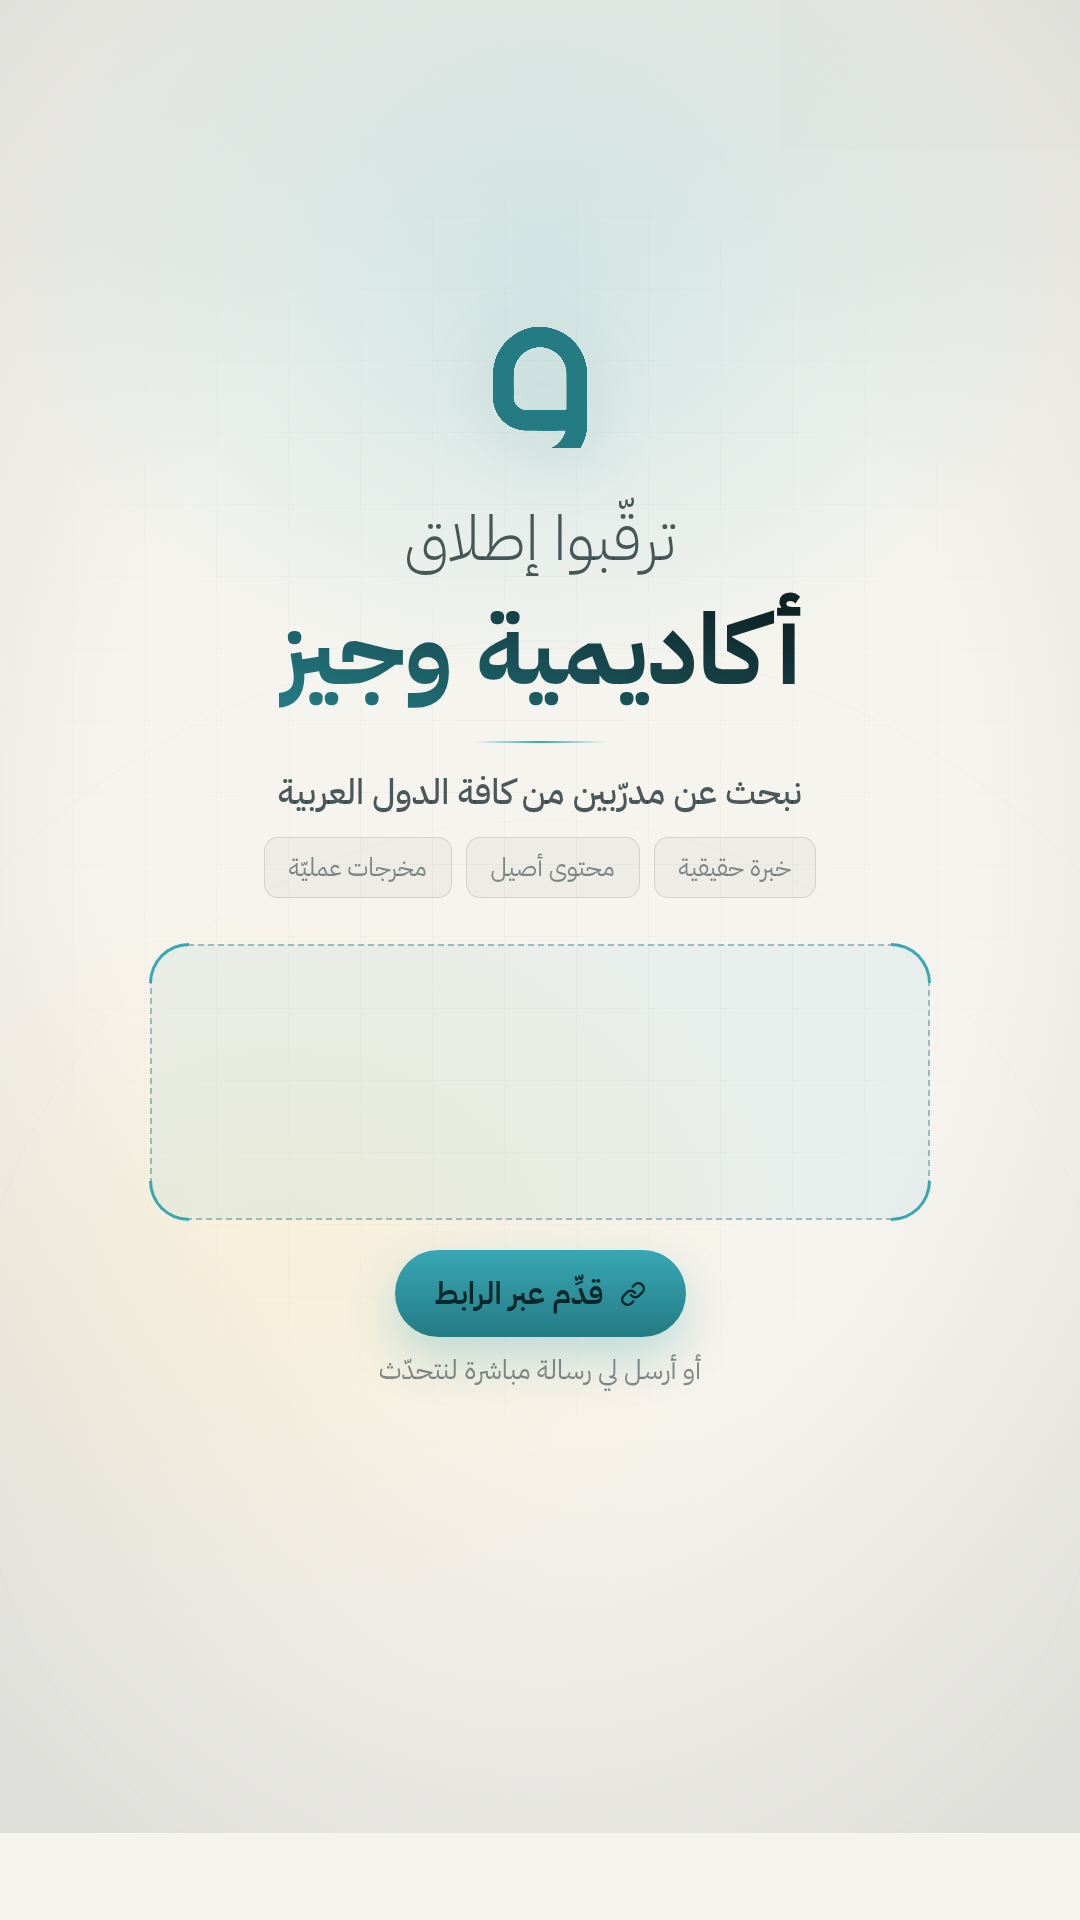
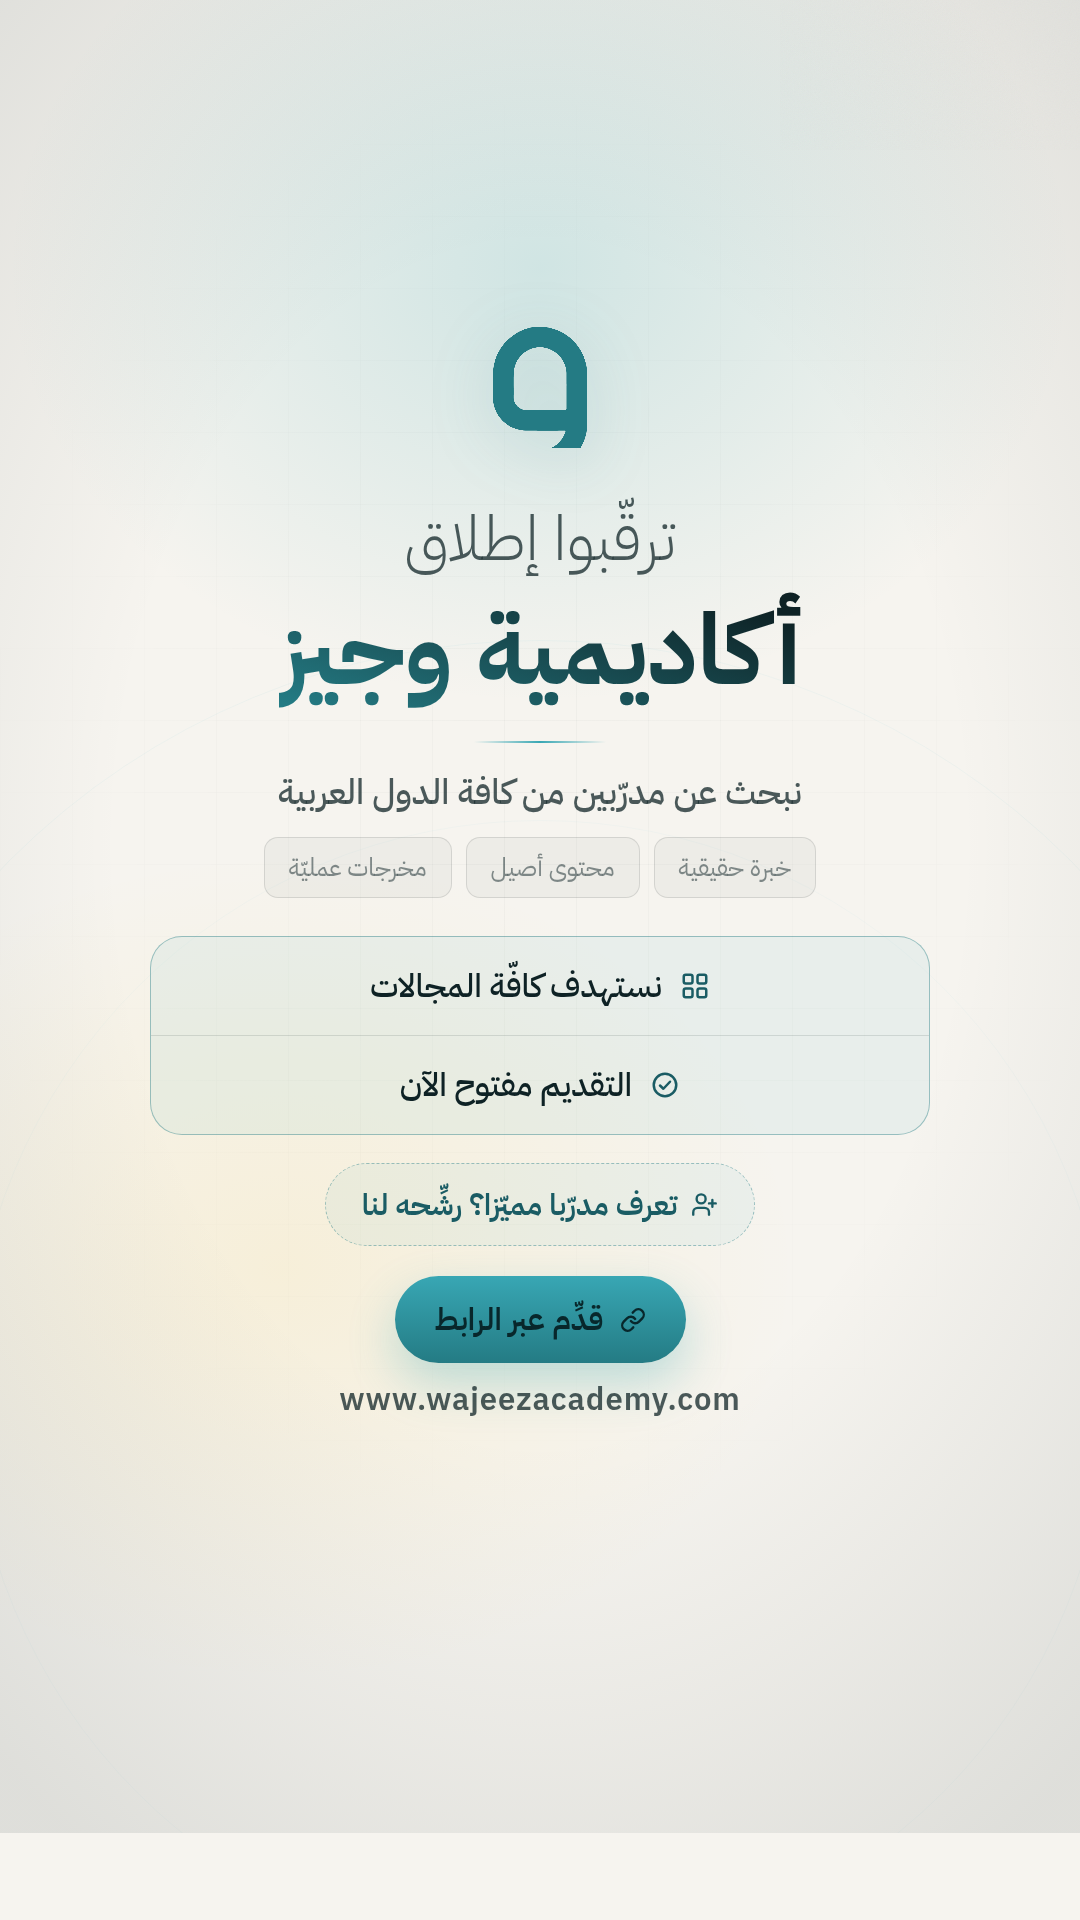
معلوماتٌ مكانَ المربّع، والعنوانُ مكانَ السطر الأخير
رفع صاحبُ المنصّة المربّعَ المتروكَ لملصَق الأسئلة، وطلب مكانَه ما يُقرأ:

- لوحٌ بسطرَين: «نستهدف كافّة المجالات» و«التقديم مفتوح الآن».
- ودعوةٌ إلى الترشيح: «تعرف مدرّبا مميّزا؟ رشِّحه لنا» — وحدُّها مقطَّعٌ كما
  كان حدُّ المربّع، فما يُطلب من القارئ يبقى له شكلُه.
- والسطرُ الأخير صار `www.wajeezacademy.com` بدل «أو أرسل لي رسالة».

والعنوانُ لاتينيٌّ في صفحةٍ عربيّة، فصُرّح باتّجاهه (`direction:ltr`) ولم
يُترك لخوارزميّة الثنائيّة تحزره.

وبهذا لم تعد الصفحةُ تنتظر ملصقا فوقها: تُقرأ وحدَها. وأُعيد ضبطُ الترويسة
في رأس الملفّ — كانت تصف مربّعا لم يعد، ولوحةً بيضاءَ تحت العلامة نُقضت من
قبلُ، وشرحُها يسكن عند `.mark` لا في الرأس.

والمتنُ بين ٣٠٦ و١٤٢٠ — داخلَ المنطقة الآمنة. و`npm run verify` خضراءُ كاملةً.

Claude-Session: https://claude.ai/code/session_01TN6Y5v5SUngx2MMrNgqUBU

diff --git a/docs/brand/تصميم-ترقبوا-إطلاق-الأكاديمية.html b/docs/brand/تصميم-ترقبوا-إطلاق-الأكاديمية.html
@@ -1,14 +1,14 @@
 <!doctype html>
 <!-- تصميمُ «ترقّبوا إطلاق أكاديمية وجيز» — لقطةُ ريلز على إنستقرام.
 
-     ما هو: صفحةٌ واحدةٌ بمقاس ١٠٨٠×١٩٢٠ تُصوَّر صورةً ثمّ تُرفع. ووسطَها
-     **مربّعٌ متروكٌ فارغا بقصد**: عليه يوضع ملصقُ الأسئلة في التطبيق، فلا
-     يُكتب فيه نصٌّ هنا ولا يُملأ.
+     ما هو: صفحةٌ واحدةٌ بمقاس ١٠٨٠×١٩٢٠ تُصوَّر صورةً ثمّ تُرفع.
 
-     لماذا لوحةٌ فاتحةٌ تحت العلامة: `logo-mark.png` شكلٌ فيروزيٌّ على
-     شفافيّة — حرفُه مقطوعٌ لا مطبوعٌ أبيض — فعلى الداكن يأخذ لونَ الخلفيّة
-     فتذوب صورتُه. وهو ما سبق أن قُرّر لبريد المنصّة (`mail-template.ts`):
-     تُحمل العلامةُ على بياض. والقرارُ هنا نفسُه، وللسبب نفسِه.
+     وكان وسطَها مربّعٌ متروكٌ فارغا يوضع عليه ملصقُ الأسئلة في إنستقرام،
+     فرفعه صاحبُ المنصّة إلى معلومات: لوحٌ بسطرَين، ثمّ دعوةٌ إلى ترشيح
+     المدرّبين. فالصفحةُ تُقرأ وحدَها ولا تنتظر ملصقا فوقها.
+
+     (ولماذا تُقلَب شفّافيّةُ العلامة بدل حملها على لوحةٍ بيضاء: مشروحٌ عند
+     `.mark` في الأنماط، حيث يسكن الشرحُ مع ما يشرحه.)
 
      والمنطقةُ الآمنة: يحجب ريلز نحوَ ٢٥٠ بكسلا من أعلى و٤٨٠ من أسفل وعمودَ
      أزرارٍ عرضُه ١٩٠ على الجانب. فلا ينزل شيءٌ ذو معنًى تحت ١٤٤٠. وتُرى
@@ -166,17 +166,34 @@
   :root[data-theme="light"] .chip{background:rgba(14,34,37,.035)}
 
   /* ــ المربَّعُ المتروكُ لملصَق الأسئلة ــ */
-  .slot{
-    position:relative;margin-top:46px;
-    width:780px;height:276px;border-radius:38px;
+  /* ــ معلوماتٌ مكانَ المربّع ــ
+
+     كان هنا مربّعٌ متروكٌ فارغا يوضع عليه ملصقُ الأسئلة، ورفعه صاحبُ المنصّة
+     إلى معلومات: لوحٌ بسطرَين يقولان ما يهمُّ من يقرأ، ثمّ دعوةٌ إلى ترشيح
+     المدرّبين — وحدُّها مقطَّعٌ كما كان حدُّ المربّع، فالدعوةُ تُطلب ولا تُملأ. */
+  .facts{
+    margin-top:38px;width:780px;
+    border-radius:32px;overflow:hidden;
     background:var(--box-fill);
-    border:2px dashed var(--box-line);
+    border:1px solid var(--box-line);
   }
-  .slot .corner{position:absolute;width:40px;height:40px;border:3px solid var(--teal)}
-  .slot .c1{top:-3px;right:-3px;border-left:0;border-bottom:0;border-radius:0 40px 0 0}
-  .slot .c2{top:-3px;left:-3px;border-right:0;border-bottom:0;border-radius:40px 0 0 0}
-  .slot .c3{bottom:-3px;right:-3px;border-left:0;border-top:0;border-radius:0 0 40px 0}
-  .slot .c4{bottom:-3px;left:-3px;border-right:0;border-top:0;border-radius:0 0 0 40px}
+  .fact{
+    display:flex;align-items:center;justify-content:center;gap:18px;
+    padding:24px 32px;
+    font-size:33px;font-weight:500;color:var(--ink);
+  }
+  .fact + .fact{border-top:1px solid var(--hair)}
+  .fact svg{color:var(--teal-light);flex:none;display:block}
+
+  .nominate{
+    margin-top:28px;
+    display:inline-flex;align-items:center;gap:14px;
+    padding:18px 36px;border-radius:999px;
+    border:1px dashed var(--box-line);
+    background:rgba(56,167,180,.06);
+    font-size:30px;font-weight:600;color:var(--teal-light);
+  }
+  .nominate svg{flex:none;display:block}
 
   /* ــ الدعوةُ إلى الفعل ــ */
   .cta{margin-top:30px;display:flex;flex-direction:column;align-items:center;gap:13px}
@@ -187,7 +204,9 @@
     color:#08272B;font-size:31px;font-weight:600;
     box-shadow:0 20px 48px rgba(56,167,180,.30);
   }
-  .cta-note{font-size:27px;font-weight:400;color:var(--ink-faint)}
+  /* العنوانُ لاتينيٌّ في صفحةٍ عربيّة، فيُصرَّح باتّجاهه ولا يُترك للثنائيّة */
+  .cta-url{font-size:31px;font-weight:600;color:var(--ink-soft);
+           direction:ltr;letter-spacing:.03em}
 
   /* أدلّةُ ريلز: الشريطُ العلويّ ٢٥٠ والسفليّ ٤٨٠ وعمودُ الأزرار ١٩٠ */
   .guides{display:none}
@@ -242,9 +261,31 @@
       <span class="chip">مخرجات عمليّة</span>
     </div>
 
-    <div class="slot">
-      <span class="corner c1"></span><span class="corner c2"></span>
-      <span class="corner c3"></span><span class="corner c4"></span>
+    <div class="facts">
+      <div class="fact">
+        <svg width="30" height="30" viewBox="0 0 24 24" fill="none" stroke="currentColor"
+             stroke-width="2" stroke-linecap="round" stroke-linejoin="round">
+          <rect x="3" y="3" width="7" height="7" rx="1.6"/><rect x="14" y="3" width="7" height="7" rx="1.6"/>
+          <rect x="3" y="14" width="7" height="7" rx="1.6"/><rect x="14" y="14" width="7" height="7" rx="1.6"/>
+        </svg>
+        نستهدف كافّة المجالات
+      </div>
+      <div class="fact">
+        <svg width="30" height="30" viewBox="0 0 24 24" fill="none" stroke="currentColor"
+             stroke-width="2" stroke-linecap="round" stroke-linejoin="round">
+          <circle cx="12" cy="12" r="9"/><path d="M8 12.4l2.7 2.6L16 9.4"/>
+        </svg>
+        التقديم مفتوح الآن
+      </div>
+    </div>
+
+    <div class="nominate">
+      <svg width="27" height="27" viewBox="0 0 24 24" fill="none" stroke="currentColor"
+           stroke-width="2.1" stroke-linecap="round" stroke-linejoin="round">
+        <path d="M16 21v-2a4 4 0 0 0-4-4H6a4 4 0 0 0-4 4v2"/>
+        <circle cx="9" cy="7" r="4"/><path d="M19 8v6M22 11h-6"/>
+      </svg>
+      تعرف مدرّبا مميّزا؟ رشِّحه لنا
     </div>
 
     <div class="cta">
@@ -256,7 +297,7 @@
         </svg>
         قدِّم عبر الرابط
       </div>
-      <div class="cta-note">أو أرسل لي رسالة مباشرة لنتحدّث</div>
+      <div class="cta-url">www.wajeezacademy.com</div>
     </div>
   </div>
 </div>
